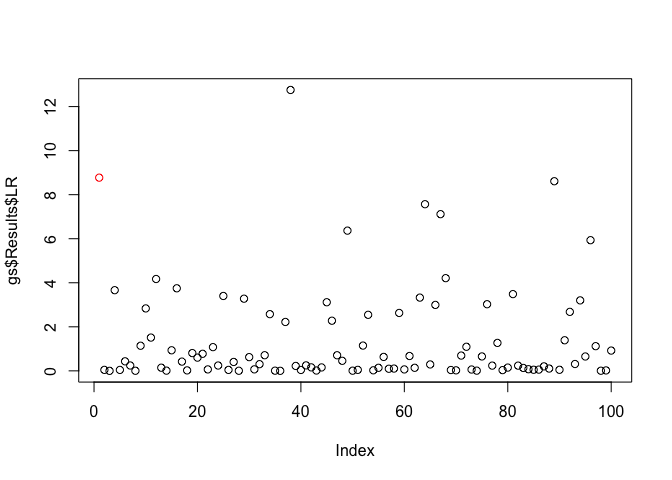
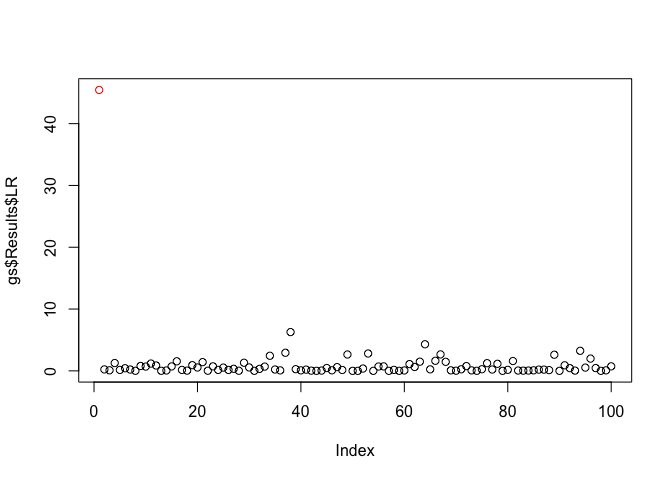
recompile with slightly bigger signal in test data

diff --git a/README.md b/README.md
@@ -44,7 +44,7 @@ to implement the GenomeScan object.
 library(wISAM)
 
 gs <- GenomeScan$new(y = phenotype, X = covariate_mat, G = locus_list, K = kinship_mat)
-wgs <- GenomeScan$new(y = phenotype, X = covariate_mat, G = locus_list, K = kinship_mat, w = se_mean_per_strain)
+wgs <- GenomeScan$new(y = phenotype, X = covariate_mat, G = locus_list, K = kinship_mat, w = 1/se_mean_per_strain)
 ```
 
 You can then call `prep_scan`, which computes the quantities that will
